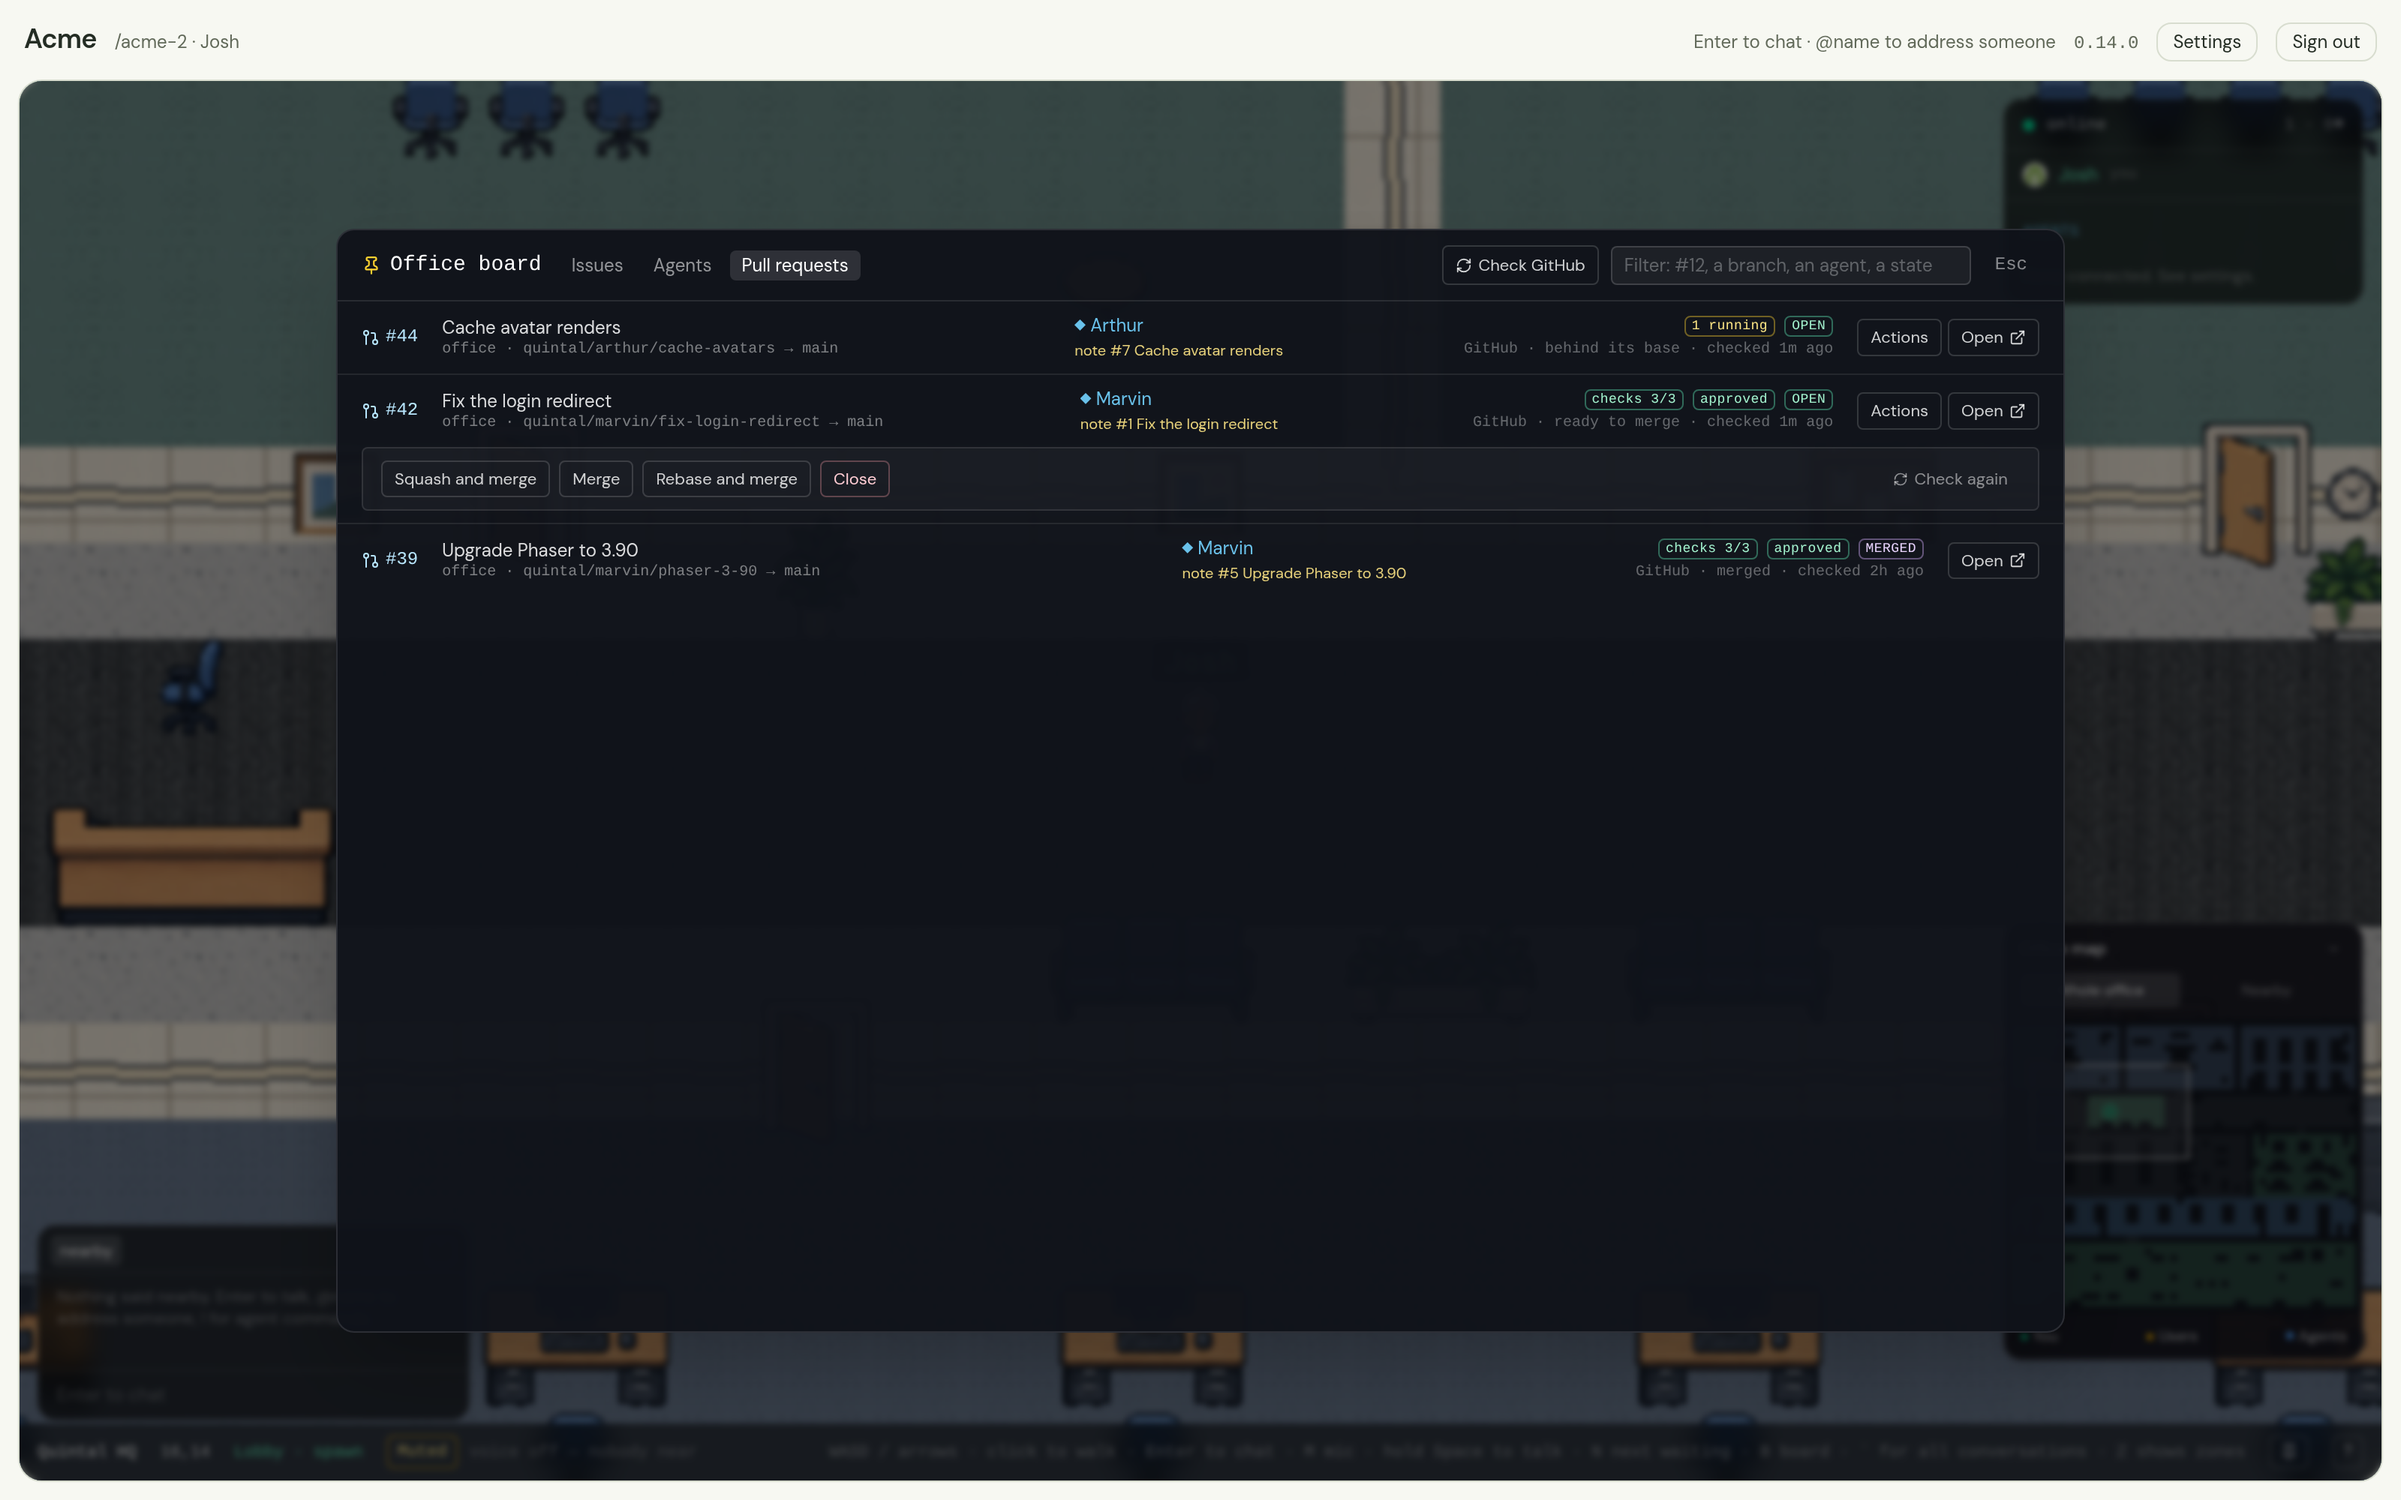
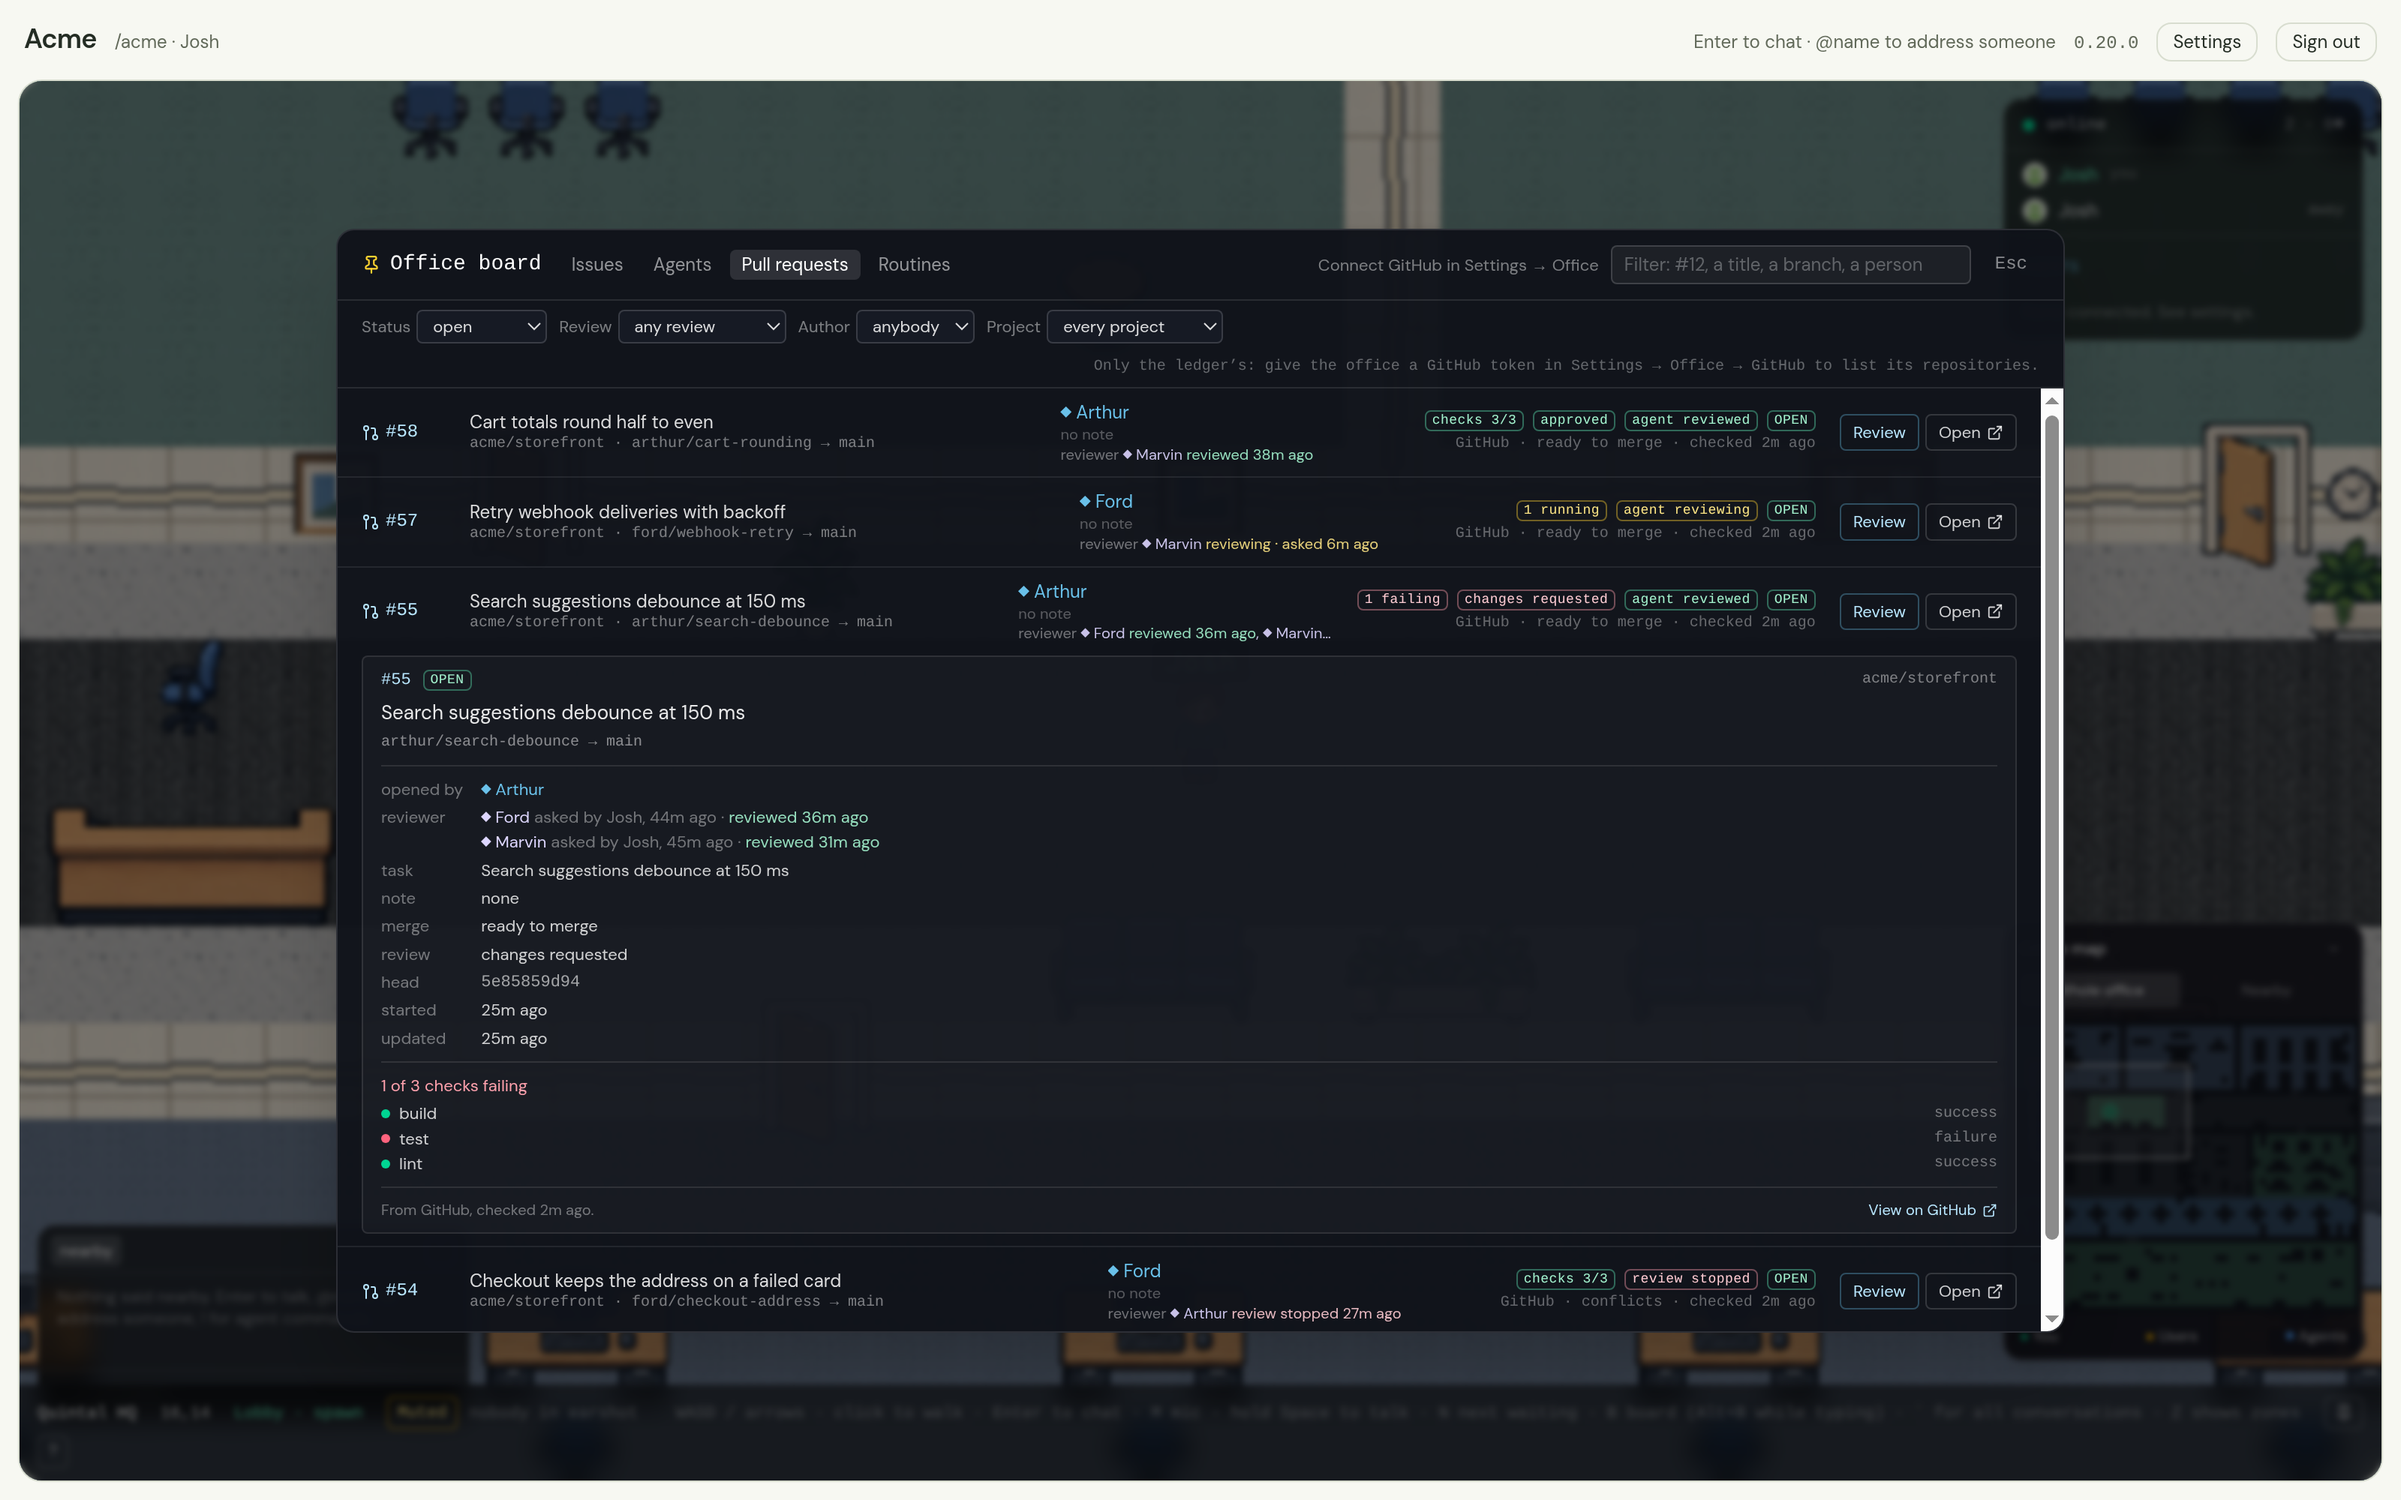
docs: the Pull requests tab retaken with reviews on it, in the README, the guide and the website (#208)

diff --git a/apps/website/src/app/page.tsx b/apps/website/src/app/page.tsx
@@ -182,6 +182,40 @@ export default function Home() {
         <article className="conversation-feature">
           <div className="feature-copy">
             <span className="feature-symbol" aria-hidden="true">
+              ✓
+            </span>
+            <h2>
+              Ask for a review.
+              <br />
+              See it done.
+            </h2>
+            <p>
+              Hand any open pull request to one of your agents to review. The
+              board says who has it and whether the review is still going,
+              done or stopped, and it stays in that agent&rsquo;s history.
+            </p>
+            <a className="text-link" href={`${REPO}/blob/main/docs/guide/board.md#asking-an-agent-for-a-review`}>
+              Read about reviews <ArrowUpRight size={16} />
+            </a>
+          </div>
+          <a
+            href="/images/pull-requests.webp"
+            className="conversation-image"
+            target="_blank"
+            rel="noreferrer"
+            aria-label="Open the full pull requests screenshot"
+          >
+            <Screenshot
+              src="/images/pull-requests.webp"
+              alt="The board's Pull requests tab: five pull requests with GitHub's checks and review, each with the agent asked to review it and whether that review is going, done or stopped, and one opened to show who asked whom and when."
+              width={1600}
+              height={1000}
+            />
+          </a>
+        </article>
+        <article className="conversation-feature">
+          <div className="feature-copy">
+            <span className="feature-symbol" aria-hidden="true">
               ▣
             </span>
             <h2>
@@ -364,7 +398,8 @@ export default function Home() {
               Give the office a GitHub token and the repositories it is for.
               It checks each pull request itself, and members squash, merge,
               rebase, update or close one from the board, pinned to the head
-              they looked at.
+              they looked at. Ask an agent to review one, and see when it is
+              done.
             </p>
           </li>
           <li>

diff --git a/screenshots/README.md b/screenshots/README.md
@@ -19,7 +19,7 @@ screenshot.
 | `settings-channels.png` | Settings → Channels: making a channel and its members | guide: channels |
 | `desktop-runtimes.png` | The desktop app's Agents tab: the fleet running, and every agent runtime this machine has | README, guide: agents |
 | `board-columns.png` | The office board in columns: seven notes open, in progress and done, with labels, colours, the agent each is handed to, and the *in review* and *merged* badges from the ledger | README, guide: board, website |
-| `board-pull-requests.png` | The board's Pull requests tab with GitHub's facts on three pull requests — checks, review, mergeability, checked when — and the actions row open on #42 | README, guide: board |
+| `board-pull-requests.png` | The board's Pull requests tab with five pull requests: GitHub's checks, review and mergeability, and the review asked of an agent on each — *reviewed*, *reviewing*, *review stopped* — with #55's details open on its two reviewers, who asked and when each finished | README, guide: board, website |
 | `desks-agent-bay.png` | The Agent Bay with desks: Marvin waiting for Josh under a `?` balloon with the beacon over its desk, Josh behind an empty desk with its screen lit and `E · begin a task at this desk` offered, Arthur at the far desk working under a lightbulb | README, guide: agents, website |
 | `desk-panel.png` | Arthur's desk panel: the card with the task it is on, and *On the screen* with the running turn — what it found, two steps done, the edit running — and *Go to Arthur →* | guide: agents, website |
 | `desk-station.png` | The station at an empty desk: note #1 picked from the board, Arthur offered and Marvin greyed with what it is on, the repository chosen from Arthur's machine's checkouts, Begin | guide: agents |
@@ -52,12 +52,20 @@ real questions; nothing in a bubble or a channel was typed by hand. Take a
 frame every second after asking: an answer bubble stays up for a few seconds
 only, and the thinking balloon for less.
 
-The two board shots were taken the same way on 29 October 2026 at 0.14.0,
+`board-columns.png` was taken the same way on 29 October 2026 at 0.14.0,
 against a seeded office — Josh, two agents never connected, seven notes, three
 ledger lines with their GitHub facts written straight into the status cache —
-so that what they show is the board as it draws, not a token's worth of real
+so that what it shows is the board as it draws, not a token's worth of real
 pull requests. The board is opened with `B` through `Input.dispatchKeyEvent`,
 the tab and the Actions button clicked by their measured rectangles.
+
+`board-pull-requests.png` was retaken on 6 November 2026 at 0.20.0 the
+same way, against a seeded office: Josh, three agents never connected, five
+ledger lines with their GitHub facts written straight into the status cache,
+and `pr.review_requested` / `pr.review_finished` board events for the
+reviews, so each standing the tab draws is on it. The office has no GitHub
+token, so the tab shows the ledger's pull requests only. The board is opened
+with `B`, the tab and #55's title clicked through the DOM.
 
 The three desk shots were taken on 2 November 2026 at 0.18.0 the same way
 as the board shots — headless Chromium over the DevTools protocol at
@@ -94,6 +102,7 @@ the site serves directly so static hosting needs no image server:
 | `board.webp` | `board-columns.png` |
 | `desks.webp` | `desks-agent-bay.png` |
 | `desk-panel.webp` | `desk-panel.png` |
+| `pull-requests.webp` | `board-pull-requests.png` |
 
 Regenerate one after retaking its source, at 1600, 960 and 640 wide, with
 `cwebp` or ImageMagick — either gives the same shape:

diff --git a/README.md b/README.md
@@ -91,9 +91,11 @@ checks by name, mergeability, the review — and members can squash, merge,
 rebase, update the branch of, or close one from the board, each pinned to the
 head they looked at. It lists every pull request of those repositories too,
 by status, author and project, and any open one can be handed to one of your
-agents to review.
+agents to review. The row then says who has it and whether that review is
+going, done or stopped, and the review stays in the agent's history on the
+Agents tab.
 
-![The board's Pull requests tab: three pull requests with their checks, review and mergeability from GitHub, and the actions row open on one — squash, merge, rebase, close](./screenshots/board-pull-requests.png)
+![The board's Pull requests tab: five pull requests with GitHub's checks and review, each with the agent asked to review it and whether that review is going, done or stopped, and #55 open to show both reviewers, who asked them and when each finished](./screenshots/board-pull-requests.png)
 
 **Routines.** A standing request to one of your agents on a schedule —
 "every hour, review the open pull requests", "weekdays at nine, see what is

diff --git a/docs/guide/board.md b/docs/guide/board.md
@@ -137,4 +137,4 @@ A review is also in the agent's history on the **Agents** tab, beside the
 branches it worked on, and an agent busy with one says *reviewing
 acme/api#12* where its task would be.
 
-![The board's Pull requests tab, with GitHub's facts on three pull requests and the actions row open on one](../../screenshots/board-pull-requests.png)
+![The board's Pull requests tab: five pull requests, each with the agent asked to review it and whether that review is going, done or stopped, and #55 open to show both reviewers, who asked them and when each finished](../../screenshots/board-pull-requests.png)
